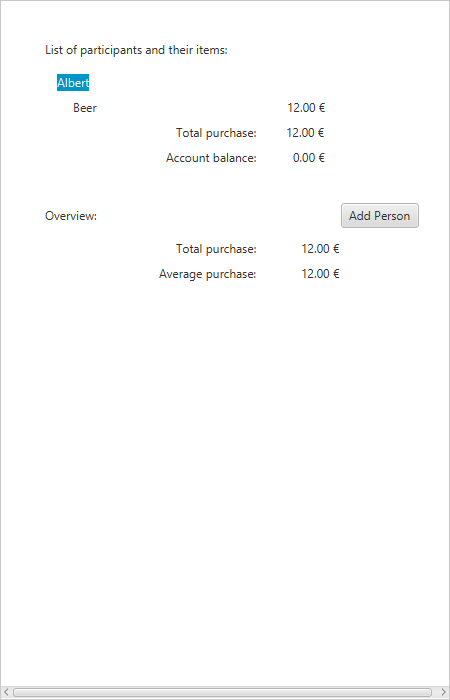
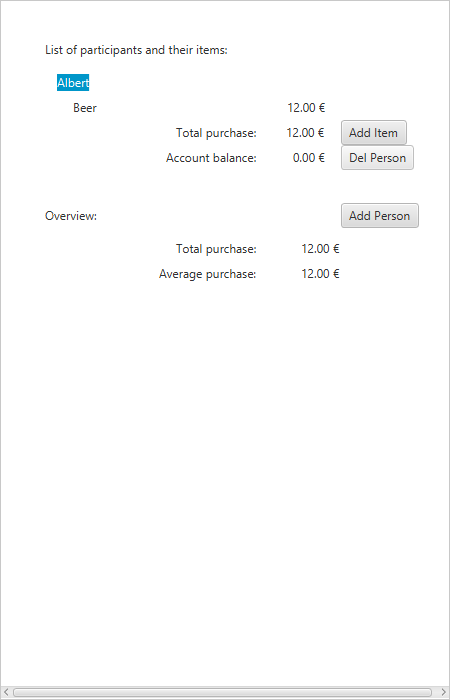
removing of items is handled correctly by the change history now.

Changed region(s): [[0.7467, 0.18, 0.9333, 0.24]]

diff --git a/src/test/java/org/sdmlib/test/examples/groupaccount/gui/PersonController.java b/src/test/java/org/sdmlib/test/examples/groupaccount/gui/PersonController.java
@@ -80,6 +80,7 @@ public class PersonController implements PropertyChangeListener
    private VBox itemList;
    private Button addItemButton;
    private Label balanceLabel;
+   private Label totalPurchaseLabel;
    
    public VBox getContent()
    {
@@ -135,9 +136,22 @@ public class PersonController implements PropertyChangeListener
          
          Label label = javafxUtils.createLabel(hBox, "Total purchase:", 200);
 
-         label = javafxUtils.createLabel(hBox, "0,00 €", 68);
-
-         javafxUtils.bindDouble(label, person, Person.PROPERTY_TOTALPURCHASE);
+         totalPurchaseLabel = javafxUtils.createLabel(hBox, "0,00 €", 68);
+         
+         PropertyChangeListener listener = new PropertyChangeListener()
+         {
+            @Override
+            public void propertyChange(PropertyChangeEvent evt)
+            {
+               String text = String.format(Locale.ENGLISH, "%.2f €", person.getTotalPurchase());
+               totalPurchaseLabel.setText(text);  
+            }
+         };
+         
+         listener.propertyChange(null);
+         
+         person.getPropertyChangeSupport().addPropertyChangeListener(Person.PROPERTY_TOTALPURCHASE, listener);
+         // javafxUtils.bindDouble(label, person, Person.PROPERTY_TOTALPURCHASE);
          
          addItemButton = javafxUtils.createButtonInBox("Add Item", hBox, 8);
          javafxUtils.addVisibilityToggle(content, addItemButton, addPersonButton);
@@ -162,7 +176,7 @@ public class PersonController implements PropertyChangeListener
 
          balanceLabel = javafxUtils.createLabel(hBox, "0,00 €", 68);
 
-         PropertyChangeListener listener = new PropertyChangeListener()
+         listener = new PropertyChangeListener()
          {
             @Override
             public void propertyChange(PropertyChangeEvent evt)
@@ -211,6 +225,23 @@ public class PersonController implements PropertyChangeListener
             itemControllers.put(item, itemControl);
          }
       }
+      
+      person.getPropertyChangeSupport().addPropertyChangeListener(Person.PROPERTY_ITEM, new PropertyChangeListener()
+      {
+         
+         @Override
+         public void propertyChange(PropertyChangeEvent evt)
+         {
+            // if an item is removed, remove its label
+            if (evt.getNewValue() == null)
+            {
+               System.out.println("should remove " + evt.getOldValue());
+               Item lostItem = (Item) evt.getOldValue();
+               ItemController lostController = itemControllers.get(lostItem);
+               lostController.getItemList().getChildren().remove(lostController.getView());
+            }
+         }
+      });
       
       if (doCreate)
       {

diff --git a/src/main/replication/org/sdmlib/replication/ChangeEventList.java b/src/main/replication/org/sdmlib/replication/ChangeEventList.java
@@ -155,6 +155,23 @@ public class ChangeEventList implements PropertyChangeInterface
       {
          this.add(change);
          Collections.sort(this);
+         
+         int pos = 0;
+         
+         for (ChangeEvent e : this)
+         {
+            if (e == change)
+            {
+               return pos;
+            }
+            
+            if (e.getNewValue() != null)
+            {
+               pos++;
+            }
+         }
+         
+         // should not be reached. 
          return this.indexOf(change);
       }
    }

diff --git a/src/test/java/org/sdmlib/test/examples/groupaccount/gui/GroupAccountAppSimpleTest.java b/src/test/java/org/sdmlib/test/examples/groupaccount/gui/GroupAccountAppSimpleTest.java
@@ -145,7 +145,7 @@ public class GroupAccountAppSimpleTest
             
             albert.createItem().withDescription("Beef").withValue(42);
             
-            albert.withoutItem(beer);
+            beer.removeYou();
             
             albert.createItem().withDescription("Coal").withValue(7);
             
@@ -155,7 +155,7 @@ public class GroupAccountAppSimpleTest
       
       story.addObjectDiagram(dataRoot);
       
-      Thread.sleep(6000);
+      Thread.sleep(3000);
       
       // Platform.exit();
       

diff --git a/src/test/java/org/sdmlib/test/examples/groupaccount/gui/ItemController.java b/src/test/java/org/sdmlib/test/examples/groupaccount/gui/ItemController.java
@@ -24,8 +24,21 @@ public class ItemController implements PropertyChangeListener
 
    private PersonController personController;
    private Item item;
+   
    private HBox view = null;
+   
+   public HBox getView()
+   {
+      return view;
+   }
+   
    private VBox itemList;
+   
+   public VBox getItemList()
+   {
+      return itemList;
+   }
+   
    private Button addItemButton;
 
    public ItemController(PersonController personController, Item item, VBox itemList, Button addItemButton)
